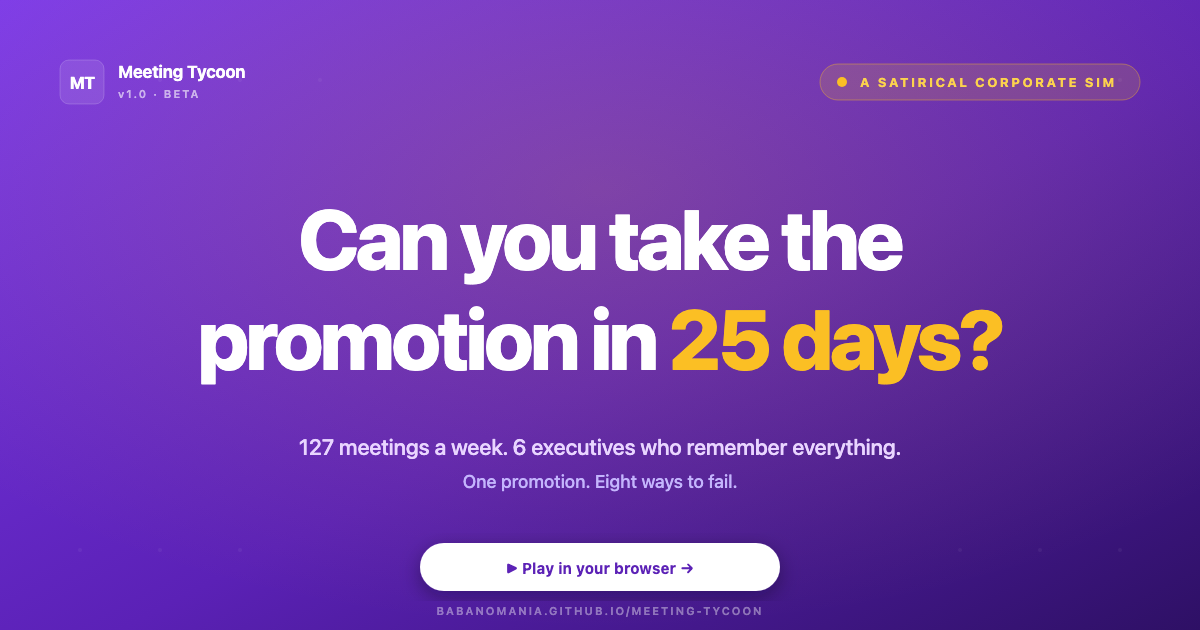
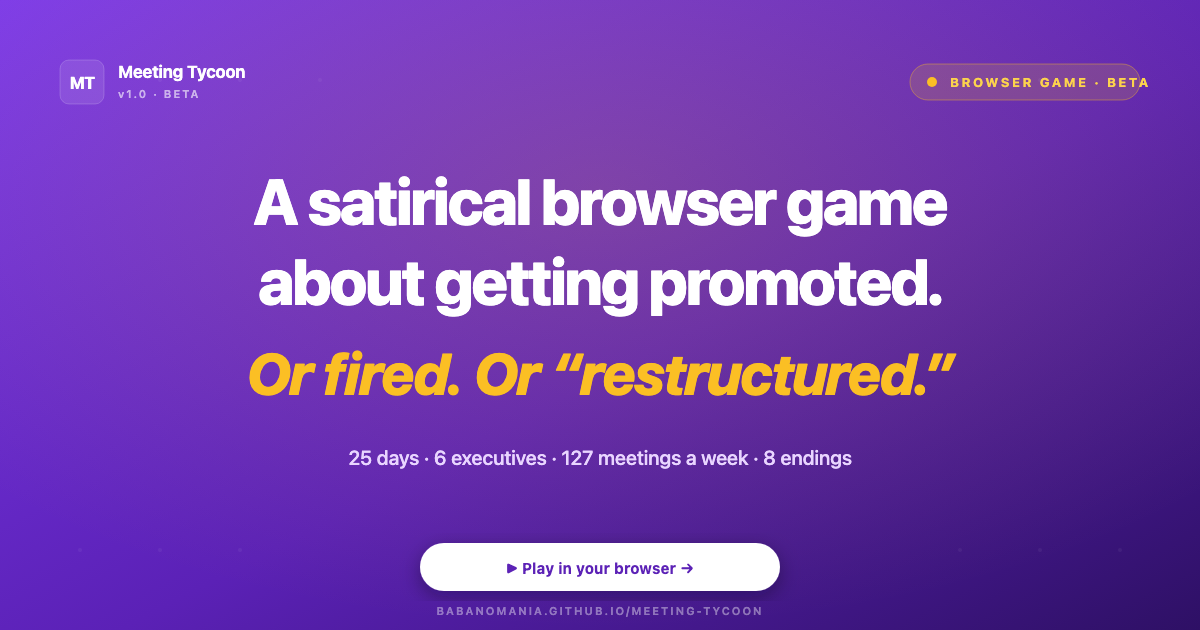
OG image + meta: swap headline to "A satirical browser game..."
User picked option #1: "A satirical browser game about getting promoted.
Or fired. Or 'restructured.'"

- public/og-image.svg: 3-line headline ("A satirical browser game" /
  "about getting promoted." / 'Or fired. Or "restructured."') with the
  punchline line in amber + italic. Top-right kicker chip simplified
  to "BROWSER GAME · BETA" since the headline now does the
  "satirical sim" framing itself. Single stats subline replaces the
  prior two-liner.
- public/og-image.png: regenerated via npm run og.
- index.html: <title>, <meta name="description">, og:title,
  og:description, og:image:alt, twitter:title, twitter:description,
  twitter:image:alt all updated to match. The 'OR "restructured."'
  joke survives all the link-preview targets.

Changed region(s): [[0.1542, 0.2714, 0.8325, 0.6333], [0.2467, 0.6937, 0.7708, 0.7841], [0.6783, 0.0905, 0.9558, 0.181]]

diff --git a/index.html b/index.html
@@ -9,26 +9,26 @@
     <link rel="preconnect" href="https://fonts.gstatic.com" crossorigin />
     <link href="https://fonts.googleapis.com/css2?family=Inter:wght@400;500;600;700;800&display=swap" rel="stylesheet" />
 
-    <title>Meeting Tycoon — Can you take the promotion in 25 days?</title>
-    <meta name="description" content="A satirical corporate management sim. Schedule meetings. Survive politics. Maintain the illusion. 25 days to VP — or one of eight ways to fail. Plays in your browser." />
+    <title>Meeting Tycoon — A satirical browser game about getting promoted (or fired)</title>
+    <meta name="description" content="A satirical browser game about getting promoted. Or fired. Or &quot;restructured.&quot; 25 days, 6 executives, 127 meetings a week, 8 endings. Plays in your browser." />
 
     <!-- ── Open Graph (Facebook, WhatsApp, iMessage, Slack, LinkedIn) ── -->
     <meta property="og:type" content="website" />
     <meta property="og:url" content="https://babanomania.github.io/meeting-tycoon/" />
-    <meta property="og:title" content="Can you take the promotion in 25 days?" />
-    <meta property="og:description" content="A satirical corporate management sim. Schedule meetings. Survive politics. Maintain the illusion. 127 meetings a week. 6 executives who remember everything." />
+    <meta property="og:title" content="A satirical browser game about getting promoted. Or fired. Or &quot;restructured.&quot;" />
+    <meta property="og:description" content="25 days. 6 executives. 127 meetings a week. 8 endings. Schedule meetings, survive politics, maintain the illusion — plays in your browser." />
     <meta property="og:image" content="https://babanomania.github.io/meeting-tycoon/og-image.png" />
     <meta property="og:image:width" content="1200" />
     <meta property="og:image:height" content="630" />
-    <meta property="og:image:alt" content="Meeting Tycoon — Can you take the promotion in 25 days?" />
+    <meta property="og:image:alt" content="A satirical browser game about getting promoted. Or fired. Or &quot;restructured.&quot;" />
     <meta property="og:site_name" content="Meeting Tycoon" />
 
     <!-- ── Twitter / X cards ── -->
     <meta name="twitter:card" content="summary_large_image" />
-    <meta name="twitter:title" content="Can you take the promotion in 25 days?" />
-    <meta name="twitter:description" content="A satirical corporate management sim. 25 days to VP — or one of eight ways to fail. Plays in your browser." />
+    <meta name="twitter:title" content="A satirical browser game about getting promoted. Or fired. Or &quot;restructured.&quot;" />
+    <meta name="twitter:description" content="25 days. 6 executives. 127 meetings a week. 8 endings. Plays in your browser." />
     <meta name="twitter:image" content="https://babanomania.github.io/meeting-tycoon/og-image.png" />
-    <meta name="twitter:image:alt" content="Meeting Tycoon — Can you take the promotion in 25 days?" />
+    <meta name="twitter:image:alt" content="A satirical browser game about getting promoted. Or fired. Or &quot;restructured.&quot;" />
   </head>
   <body>
     <div id="root"></div>
